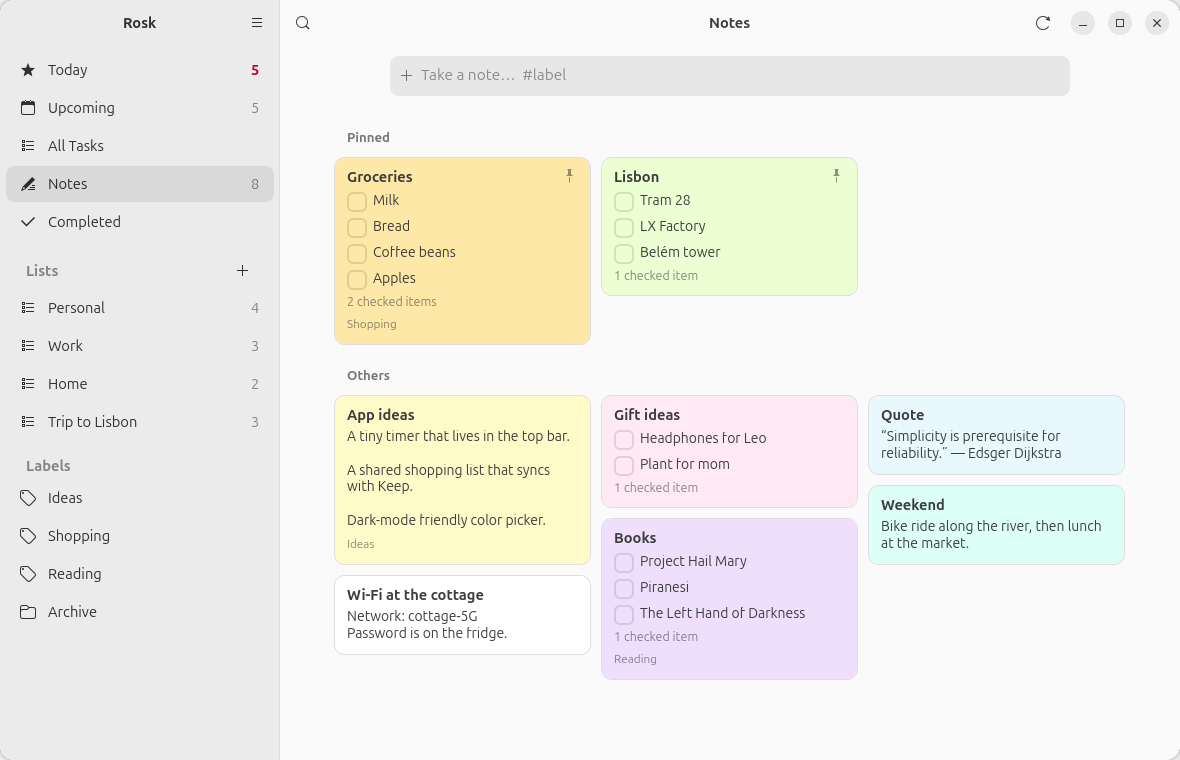
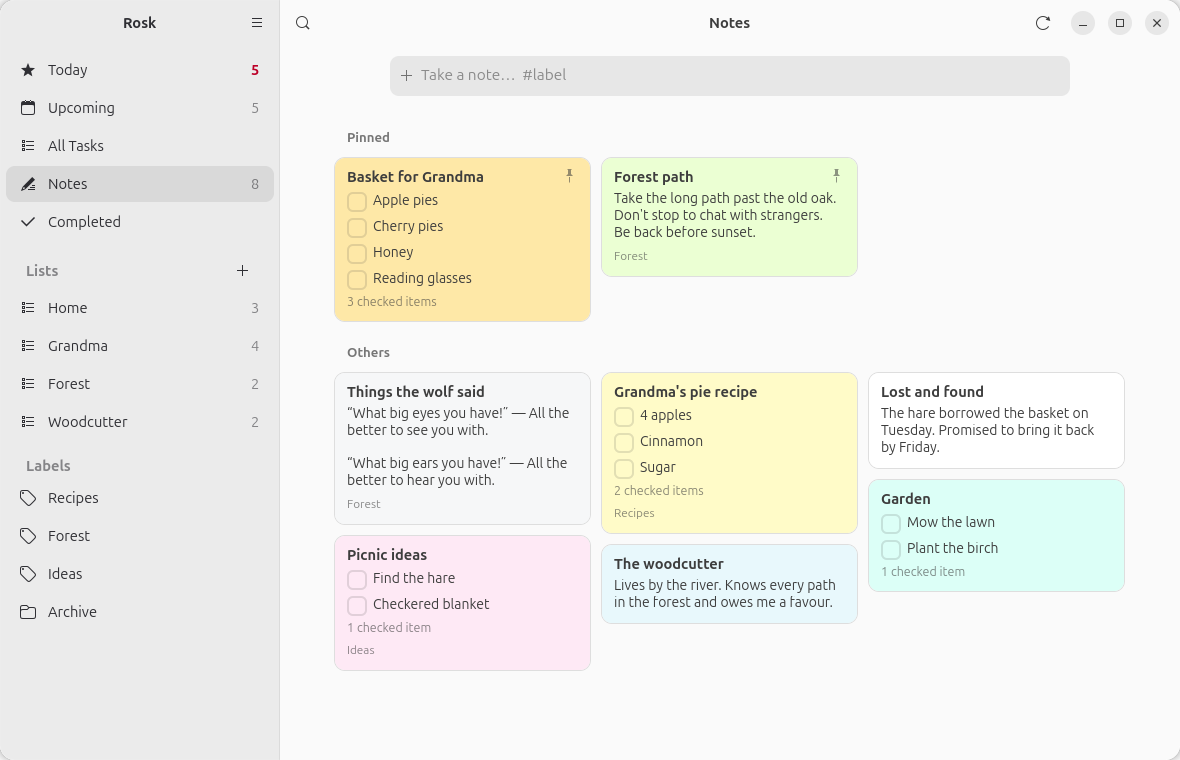
README: fairy-tale demo data, note editor screenshot, no maintenance notes

diff --git a/tools/screenshots.py b/tools/screenshots.py
@@ -41,9 +41,10 @@ def d(days):
 
 
 def seed(repo):
+    """Little Red Riding Hood's to-do lists."""
     s = repo.store
     lists = {name: repo.create_collection("tasklist", name)
-             for name in ("Personal", "Work", "Home", "Trip to Lisbon")}
+             for name in ("Home", "Grandma", "Forest", "Woodcutter")}
 
     def task(title, lst, due=None, body="", subs=(), done_subs=(), links=None, done=False):
         iid = repo.create_task(title, collection_id=lists[lst], due=due, body=body, notify=False)
@@ -61,29 +62,30 @@ def seed(repo):
         return iid
 
     # created bottom-up: new tasks go on top
-    task("Renew the domain name", "Work", d(-3))
-    task("Reply to Anna about the hosting", "Work", d(-1),
-         links=[{"type": "email", "description": "Hosting options", "link": "https://mail.google.com/"}])
-    task("Book a table for Friday", "Personal", d(0))
-    task("Water the plants", "Home", d(0))
-    task("Prepare the quarterly report", "Work", d(0), body="Numbers from the sales dashboard",
-         subs=("Collect numbers", "Draft slides", "Send to the team"), done_subs=("Collect numbers",))
-    task("Call the bank", "Personal", d(1))
-    task("Dentist appointment", "Personal", d(3))
-    task("Flights and hotel", "Trip to Lisbon", d(5), subs=("Flights", "Hotel near Alfama", "Airport transfer"),
-         done_subs=("Flights",))
-    task("Pack the camera", "Trip to Lisbon", d(9))
-    task("Pastéis de nata tour", "Trip to Lisbon")
-    task("Fix the kitchen tap", "Home", d(12))
-    task("Read “The Pragmatic Programmer”", "Personal")
-    task("Update the website footer", "Work", done=True)
-    task("Buy a birthday present for Mia", "Personal", d(-6), done=True)
+    task("Return Grandma's pie dish", "Grandma", d(-3))
+    task("Reply to Grandma's letter", "Grandma", d(-1),
+         links=[{"type": "email", "description": "Come over on Sunday",
+                 "link": "https://mail.google.com/"}])
+    task("Ask the woodcutter about the short path", "Woodcutter", d(0))
+    task("Wash the red hood", "Home", d(0))
+    task("Bake pies for Grandma", "Home", d(0), body="Apple and cherry, six of each",
+         subs=("Pick apples", "Make the dough", "Bake until golden"), done_subs=("Pick apples",))
+    task("Pick flowers on the way", "Forest", d(1))
+    task("Find the hare who borrowed my basket", "Forest", d(3))
+    task("Visit Grandma", "Grandma", d(5),
+         subs=("Pack the basket", "Take the long path", "Knock three times"),
+         done_subs=("Pack the basket",))
+    task("Mow the lawn at Grandma's", "Grandma", d(9))
+    task("Buy a birch sapling", "Home", d(12))
+    task("Learn the wolf-warning whistle", "Woodcutter")
+    task("Mend the basket", "Home", done=True)
+    task("Buy a red ribbon", "Home", d(-6), done=True)
     with s.tx():
-        s.set_meta("default_list", lists["Personal"])
+        s.set_meta("default_list", lists["Home"])
 
+    recipes = repo.ensure_collection("label", "Recipes")
+    forest = repo.ensure_collection("label", "Forest")
     ideas = repo.ensure_collection("label", "Ideas")
-    shopping = repo.ensure_collection("label", "Shopping")
-    reading = repo.ensure_collection("label", "Reading")
 
     def note(title, body="", items=None, color="DEFAULT", labels=(), pinned=False):
         checklist = [{"text": t, "checked": c} for t, c in items] if items is not None else None
@@ -91,22 +93,29 @@ def seed(repo):
                                notify=False)
         if pinned:
             repo.update(iid, pinned=1)
+        return iid
 
-    note("Weekend", "Bike ride along the river, then lunch at the market.", color="TEAL")
-    note("Books", items=[("Project Hail Mary", False), ("Dune", True), ("Piranesi", False),
-                         ("The Left Hand of Darkness", False)], color="PURPLE", labels=[reading])
-    note("Wi-Fi at the cottage", "Network: cottage-5G\nPassword is on the fridge.")
-    note("App ideas", "A tiny timer that lives in the top bar.\n\nA shared shopping list "
-         "that syncs with Keep.\n\nDark-mode friendly color picker.",
-         color="YELLOW", labels=[ideas])
-    note("Gift ideas", items=[("Headphones for Leo", False), ("Plant for mom", False),
-                              ("Board game", True)], color="PINK")
-    note("Quote", "“Simplicity is prerequisite for reliability.” — Edsger Dijkstra", color="BLUE")
-    note("Groceries", items=[("Milk", False), ("Bread", False), ("Coffee beans", False),
-                             ("Apples", False), ("Olive oil", True), ("Eggs", True)],
-         color="ORANGE", labels=[shopping], pinned=True)
-    note("Lisbon", items=[("Tram 28", False), ("LX Factory", False), ("Belém tower", False),
-                          ("Time Out Market", True)], color="GREEN", pinned=True)
+    note("Lost and found", "The hare borrowed the basket on Tuesday. Promised to bring it back "
+         "by Friday.")
+    note("Garden", items=[("Mow the lawn", False), ("Plant the birch", False),
+                          ("Water the roses", True)], color="TEAL")
+    note("Picnic ideas", items=[("Find the hare", False), ("Checkered blanket", False),
+                                ("Lemonade", True)], color="PINK", labels=[ideas])
+    note("The woodcutter", "Lives by the river. Knows every path in the forest and owes me "
+         "a favour.", color="BLUE")
+    note("Things the wolf said", "“What big eyes you have!” — All the better to see you with.\n\n"
+         "“What big ears you have!” — All the better to hear you with.", color="GRAY",
+         labels=[forest])
+    note("Grandma's pie recipe", items=[("2 cups of flour", True), ("Butter", True),
+                                        ("4 apples", False), ("Cinnamon", False), ("Sugar", False)],
+         color="YELLOW", labels=[recipes])
+    note("Forest path", "Take the long path past the old oak.\nDon't stop to chat with strangers.\n"
+         "Be back before sunset.", color="GREEN", labels=[forest], pinned=True)
+    note("Basket for Grandma", items=[("Apple pies", False), ("Cherry pies", False),
+                                      ("Pot of butter", True), ("Honey", False),
+                                      ("Fresh flowers", True), ("Reading glasses", False),
+                                      ("Warm socks", True)],
+         color="ORANGE", pinned=True)
 
 
 def pump(ms):
@@ -139,18 +148,26 @@ def shots(app):
     win.show_view("today")
     shot("today.png")
 
-    work = app.repo.find_collection("tasklist", "Work")
-    win.show_view("list:" + work["id"])
-    report = app.repo.store.items("title='Prepare the quarterly report'")[0]
-    win.open_item(report["id"], focus=False)
+    home = app.repo.find_collection("tasklist", "Home")
+    win.show_view("list:" + home["id"])
+    pies = app.repo.store.items("title='Bake pies for Grandma'")[0]
+    win.open_item(pies["id"], focus=False)
     shot("list-editor.png")
     win._close_editor()
 
     win.show_view("notes")
     shot("notes.png")
 
+    basket = app.repo.store.items("title='Basket for Grandma'")[0]
+    win.open_item(basket["id"], focus=False)
+    pump(300)
+    win.editor._show_checked = True  # unfold the checked items for the picture
+    win.editor._fill_checklist()
+    shot("note-editor.png")
+    win._close_editor()
+
     win.show_view("today")
-    win.add_entry.set_text("Call the plumber tomorrow #Home: - find the number - book a visit")
+    win.add_entry.set_text("Bring the basket tomorrow #Grandma: - pies - butter - flowers")
     win.add_entry.set_position(-1)
     shot("quick-syntax.png")
     win.add_entry.set_text("")
@@ -175,7 +192,7 @@ def shots(app):
     pump(600)
     q = app.quick
     q.mode.set_active_name("task")
-    q.entry.set_text("Pick up the parcel fri #")
+    q.entry.set_text("Pick strawberries fri #")
     q.entry.set_position(-1)
     pump(700)
     tmp = Path(tempfile.mkdtemp())

diff --git a/README.ru.md b/README.ru.md
@@ -30,14 +30,12 @@ GNOME, главное в нём — скорость и краткость: за
 |---|---|
 | ![Список задач и редактор](docs/screenshots/list-editor.png) | ![Заметки](docs/screenshots/notes.png) |
 | Списки, подзадачи и панель редактирования | Заметки Google Keep: закреплённые и цветные |
-| ![Синтаксис быстрого ввода](docs/screenshots/quick-syntax.png) | ![Предстоящие, светлая тема](docs/screenshots/upcoming-light.png) |
-| Одна строка: дата, список и подзадачи распознаются на лету | Предстоящие задачи по дням, светлая тема |
-| ![Быстрый ввод](docs/screenshots/quick-add.png) | ![Заметки, светлая тема](docs/screenshots/notes-light.png) |
-| Быстрый ввод: задача или заметка, после `#` подсказываются списки | Заметки в светлой теме |
-| ![О программе](docs/screenshots/about.png) | |
-| Окно «О программе» | |
-
-На скриншотах выдуманные данные; пересоздать их можно скриптом `tools/screenshots.py`.
+| ![Редактирование заметки-списка](docs/screenshots/note-editor.png) | ![Синтаксис быстрого ввода](docs/screenshots/quick-syntax.png) |
+| Заметки-списки: отмеченные пункты сворачиваются, как в Keep | Одна строка: дата, список и подзадачи распознаются на лету |
+| ![Быстрый ввод](docs/screenshots/quick-add.png) | ![Предстоящие, светлая тема](docs/screenshots/upcoming-light.png) |
+| Быстрый ввод: задача или заметка, после `#` подсказываются списки | Предстоящие задачи по дням, светлая тема |
+| ![Заметки, светлая тема](docs/screenshots/notes-light.png) | ![О программе](docs/screenshots/about.png) |
+| Заметки в светлой теме | Окно «О программе» |
 
 ## Требования
 

diff --git a/README.md b/README.md
@@ -30,14 +30,12 @@ seconds, and checking it off even less.
 |---|---|
 | ![Task list with the editor](docs/screenshots/list-editor.png) | ![Notes](docs/screenshots/notes.png) |
 | Lists, subtasks and the editor pane | Google Keep notes, pinned and colored |
-| ![Quick-capture syntax](docs/screenshots/quick-syntax.png) | ![Upcoming, light style](docs/screenshots/upcoming-light.png) |
-| One-line syntax: date, list and subtasks are recognized as you type | Upcoming tasks by day, light style |
-| ![Quick add](docs/screenshots/quick-add.png) | ![Notes, light style](docs/screenshots/notes-light.png) |
-| Quick add: task or note, `#` suggests your lists | Notes in the light style |
-| ![About](docs/screenshots/about.png) | |
-| The About dialog | |
-
-Screenshots use made-up data; `tools/screenshots.py` regenerates them.
+| ![Editing a checklist note](docs/screenshots/note-editor.png) | ![Quick-capture syntax](docs/screenshots/quick-syntax.png) |
+| Checklist notes: checked items fold away, like in Keep | One-line syntax: date, list and subtasks are recognized as you type |
+| ![Quick add](docs/screenshots/quick-add.png) | ![Upcoming, light style](docs/screenshots/upcoming-light.png) |
+| Quick add: task or note, `#` suggests your lists | Upcoming tasks by day, light style |
+| ![Notes, light style](docs/screenshots/notes-light.png) | ![About](docs/screenshots/about.png) |
+| Notes in the light style | The About dialog |
 
 ## Requirements
 
